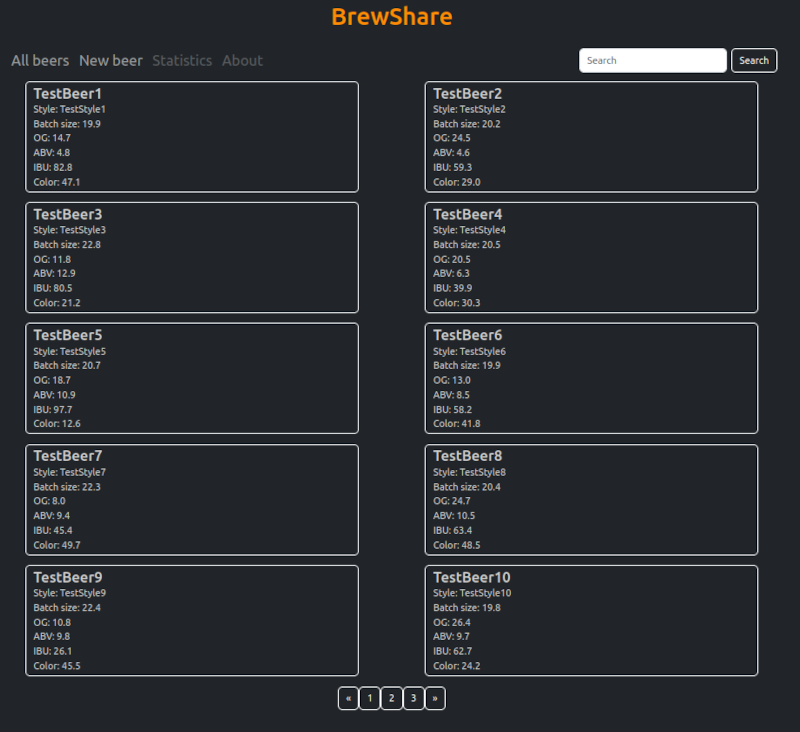
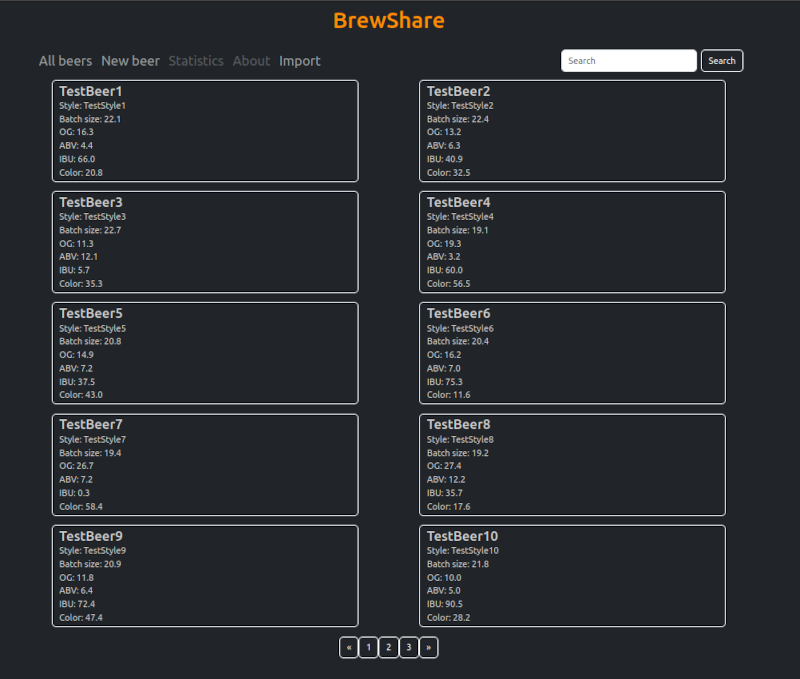
Screenshots and readme updated

Changed region(s): [[0.4062, 0.0619, 0.9688, 0.9897], [0.0, 0.0619, 0.4688, 0.9278], [0.4062, 0.0, 0.5625, 0.0619]]

diff --git a/README.md b/README.md
@@ -2,12 +2,13 @@
 <h1 align="center">BrewShare</h1>
 
 ### About The Project
-BrewShare lets you access and share your brew beersmithRecipes with friends and your homebrew club via shareable links.
-BrewShare was created in a dire need for quick and easy way to share beer beersmithRecipe details with fellow homebrewers for free.
+BrewShare lets you access and share your brew recipes with friends and your homebrew club via shareable links.
+BrewShare was created in a dire need for quick and easy way to share beer recipe details with fellow homebrewers for free.
 <p align="right">(<a href="#readme-top">back to top</a>)</p>
 
 ### Features
 - Create quick view of beer specification and it's ingredients
+- Import recipes from BeerXML file (tested on Beersmith 3.2.8)
 
 ### Built With
 [![Java][Java.com]][Java-url]
